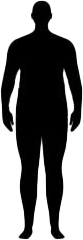
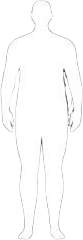
update imges added html and css

diff --git a/07 - BMI Calculator/style.css b/07 - BMI Calculator/style.css
@@ -1,5 +1,121 @@
+@import url("https://fonts.googleapis.com/css2?family=Poppins:wght@300;400;500&display=swap");
 * {
   margin: 0;
   padding: 0;
   box-sizing: border-box;
+}
+body {
+  display: flex;
+  align-items: center;
+  justify-content: center;
+  min-height: 100vh;
+  font-family: "Poppins", sans-serif;
+  background-color: rgb(220, 233, 233);
+}
+.container {
+  width: 350px;
+  background-color: white;
+  box-shadow: 1px 1px 50px #3333331a;
+  border-radius: 10px;
+  overflow: hidden;
+  position: relative;
+}
+
+.img-result {
+  padding: 40px;
+  background-color: #63b832;
+  display: flex;
+  flex-direction: column;
+  justify-content: center;
+  align-items: center;
+  color: rgb(255, 255, 255);
+  font-size: 18px;
+  border-radius: 10px 10px 0 0;
+}
+
+.img-result p {
+  margin-top: 10px;
+  margin-bottom: 40px;
+  font-size: 24px;
+  font-weight: 700;
+}
+.bmi-box {
+  display: flex;
+  justify-content: center;
+  align-items: center;
+  position: absolute;
+  background-color: #333333;
+  border: 10px solid white;
+  color: white;
+  border-radius: 50%;
+  height: 120px;
+  width: 120px;
+  font-size: 30px;
+  bottom: 200px;
+  right: 32%;
+}
+
+.height-weight-box {
+  background-color: white;
+  color: #333333;
+}
+.height,
+.weight {
+  border: none;
+  outline: none;
+  font-size: 18px;
+  background-color: #efefef;
+  padding: 10px;
+  border-radius: 5px;
+  color: #333333;
+}
+.weight {
+  margin-top: 20px;
+}
+.height-weight-box {
+  margin-top: 60px;
+  display: flex;
+  flex-direction: column;
+  align-items: center;
+  justify-content: space-around;
+}
+.btn-box {
+  display: flex;
+  justify-content: center;
+  margin: 25px 0;
+}
+.btn-box button {
+  border: none;
+  cursor: pointer;
+  font-size: 18px;
+  padding: 10px 20px;
+  border-radius: 5px;
+  margin-right: 20px;
+  width: 30%;
+  color: white;
+  background-color: #333333;
+}
+.btn-box button:hover {
+  background-color: #212020;
+}
+textarea::placeholder {
+  color: #333333;
+}
+img {
+  max-width: 25%;
+}
+.normal-bg {
+  background-color: #63b832;
+}
+
+.fat-bg {
+  background-color: #f3ea27;
+}
+
+.overweight-bg {
+  background-color: #e71419;
+}
+
+.skinny-bg {
+  background-color: #00a1ec;
 }

diff --git a/07 - BMI Calculator/index.html b/07 - BMI Calculator/index.html
@@ -5,9 +5,38 @@
     <meta http-equiv="X-UA-Compatible" content="IE=edge" />
     <meta name="viewport" content="width=device-width, initial-scale=1.0" />
     <link rel="stylesheet" href="style.css" />
-    <title>Base Project</title>
+    <title>BMI Calculator</title>
   </head>
   <body>
+    <div class="container">
+      <div class="img-result">
+        <img src="images/fat.png" id="img-el" />
+        <p id="result-el">you are over weight</p>
+      </div>
+      <div class="bmi-box" id="bmi-el">0.54</div>
+      <div class="height-weight-box">
+        <input
+          type="text"
+          placeholder="Enter your height ... "
+          autofocus="on"
+          autocomplete="off"
+          id="height-el"
+          class="height"
+        />
+        <input
+          type="text"
+          placeholder="Enter your weight ... "
+          autofocus="on"
+          autocomplete="off"
+          id="weight-el"
+          class="weight"
+        />
+      </div>
+      <div class="btn-box">
+        <button class="cal-btn" onclick="cal()">calculate</button>
+        <button class="reset-btn" onclick="rest()">reset</button>
+      </div>
+    </div>
     <script src="app.js"></script>
   </body>
 </html>

diff --git a/07 - BMI Calculator/app.js b/07 - BMI Calculator/app.js
@@ -1,0 +1,7 @@
+// bmi-el
+// img-el
+// result-el
+// height-el
+// weight-el
+// rest();
+// cal();
